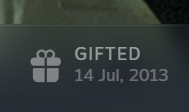
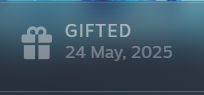
feat: add confetti easter egg when clicked

diff --git a/frontend/display/components.ts b/frontend/display/components.ts
@@ -1,18 +1,10 @@
 // Modified from https://github.com/jcdoll/hltb-millennium-plugin
 import type { licenseData } from '../types';
 import { log } from '../lib/logger';
+import confetti from 'canvas-confetti';
 
 function createDisplayId(gameName: string): string {
   return 'gratitude-' + gameName.toLowerCase().replace(/[^a-z0-9]/g, '-');
-}
-
-function formatTime(hours: number | null | undefined): string {
-  if (!hours || hours === 0) return '--';
-  if (hours < 1) {
-    const mins = Math.round(hours * 60);
-    return `${mins}m`;
-  }
-  return `${hours}h`;
 }
 
 // TODO: add settings menu to change icon from default
@@ -29,12 +21,55 @@ const reactIconsIO5GiftIconFilledSharpSVG = `<svg stroke="rgba(255, 255, 255, 0.
 const reactIconsIO5GiftIconFilledSVG = `<svg stroke="rgba(255, 255, 255, 0.4)" fill="rgba(255, 255, 255, 0.4)" stroke-width="0" viewBox="0 0 512 512" height="30" width="30" xmlns="http://www.w3.org/2000/svg"><path fill="none" d="M200 144h40v-40a40 40 0 1 0-40 40zm152-40a40 40 0 0 0-80 0v40h40a40 40 0 0 0 40-40z"></path><path d="M80 416a64 64 0 0 0 64 64h92a4 4 0 0 0 4-4V292a4 4 0 0 0-4-4H88a8 8 0 0 0-8 8zm160-164V144h32v108a4 4 0 0 0 4 4h140a47.93 47.93 0 0 0 16-2.75A48.09 48.09 0 0 0 464 208v-16a48 48 0 0 0-48-48h-40.54a2 2 0 0 1-1.7-3A72 72 0 0 0 256 58.82 72 72 0 0 0 138.24 141a2 2 0 0 1-1.7 3H96a48 48 0 0 0-48 48v16a48.09 48.09 0 0 0 32 45.25A47.93 47.93 0 0 0 96 256h140a4 4 0 0 0 4-4zm32-148a40 40 0 1 1 40 40h-40zm-74.86-39.9A40 40 0 0 1 240 104v40h-40a40 40 0 0 1-2.86-79.89zM276 480h92a64 64 0 0 0 64-64V296a8 8 0 0 0-8-8H276a4 4 0 0 0-4 4v184a4 4 0 0 0 4 4z"></path></svg>`
 const reactIconsHi2GiftIconFilledSVG = `<svg stroke="rgba(255, 255, 255, 0.4)" fill="rgba(255, 255, 255, 0.4)" stroke-width="0" viewBox="0 0 24 24" aria-hidden="true" height="30" width="30" xmlns="http://www.w3.org/2000/svg"><path d="M11.25 3v4.046a3 3 0 0 0-4.277 4.204H1.5v-6A2.25 2.25 0 0 1 3.75 3h7.5ZM12.75 3v4.011a3 3 0 0 1 4.239 4.239H22.5v-6A2.25 2.25 0 0 0 20.25 3h-7.5ZM22.5 12.75h-8.983a4.125 4.125 0 0 0 4.108 3.75.75.75 0 0 1 0 1.5 5.623 5.623 0 0 1-4.875-2.817V21h7.5a2.25 2.25 0 0 0 2.25-2.25v-6ZM11.25 21v-5.817A5.623 5.623 0 0 1 6.375 18a.75.75 0 0 1 0-1.5 4.126 4.126 0 0 0 4.108-3.75H1.5v6A2.25 2.25 0 0 0 3.75 21h7.5Z"></path><path d="M11.085 10.354c.03.297.038.575.036.805a7.484 7.484 0 0 1-.805-.036c-.833-.084-1.677-.325-2.195-.843a1.5 1.5 0 0 1 2.122-2.12c.517.517.759 1.36.842 2.194ZM12.877 10.354c-.03.297-.038.575-.036.805.23.002.508-.006.805-.036.833-.084 1.677-.325 2.195-.843A1.5 1.5 0 0 0 13.72 8.16c-.518.518-.76 1.362-.843 2.194Z"></path></svg>`
 
-
 function createGiftIcon(doc: Document): HTMLElement {
   const iconDiv = doc.createElement('div');
   iconDiv.className = '_1tIg-QIrwMNtCm7NcYADyi k-QNT9kzOEOvG0U_kGmwr';
-  iconDiv.innerHTML = reactIconsIO5GiftIconFilledSVG;
+  iconDiv.style.cursor = 'pointer';
+  iconDiv.innerHTML = reactIconsIO5GiftIconFilledSharpSVG;
+
+  // Easter egg: click behavior to trigger confetti
+  iconDiv.addEventListener('click', (e) => {
+    e.preventDefault();
+    e.stopPropagation();
+
+    fireConfetti(doc);
+
+    iconDiv.style.transform = 'scale(1.2)';
+    setTimeout(() => iconDiv.style.transform = 'scale(1)', 100);
+  });
+
   return iconDiv;
+}
+
+function fireConfetti(doc: Document) {
+  log("fired confetti!");
+  
+  const canvas = doc.createElement('canvas');
+  canvas.style.position = 'fixed';
+  canvas.style.inset = '0';
+  canvas.style.width = '100vw';
+  canvas.style.height = '100vh';
+  canvas.style.zIndex = '99999';
+  canvas.style.pointerEvents = 'none';
+  doc.body.appendChild(canvas);
+
+  const myConfetti = confetti.create(canvas, {
+    resize: true,
+    useWorker: true
+  });
+
+  myConfetti({
+    particleCount: 150,
+    spread: 70,
+    origin: { y: 0.6 },
+  });
+
+  // Cleanup
+  setTimeout(() => {
+    if (canvas.parentElement) {
+      doc.body.removeChild(canvas);
+    }
+  }, 5000);
 }
 
 function createContentContainer(doc: Document, data?: licenseData): HTMLElement {
@@ -87,7 +122,7 @@ export function createDisplay(
 
   // Add icons and content
   const icon = createGiftIcon(doc);
-  container.appendChild(icon)
+  container.appendChild(icon);
   container.appendChild(createContentContainer(doc, data));
 
   log('Created display container:', container);
